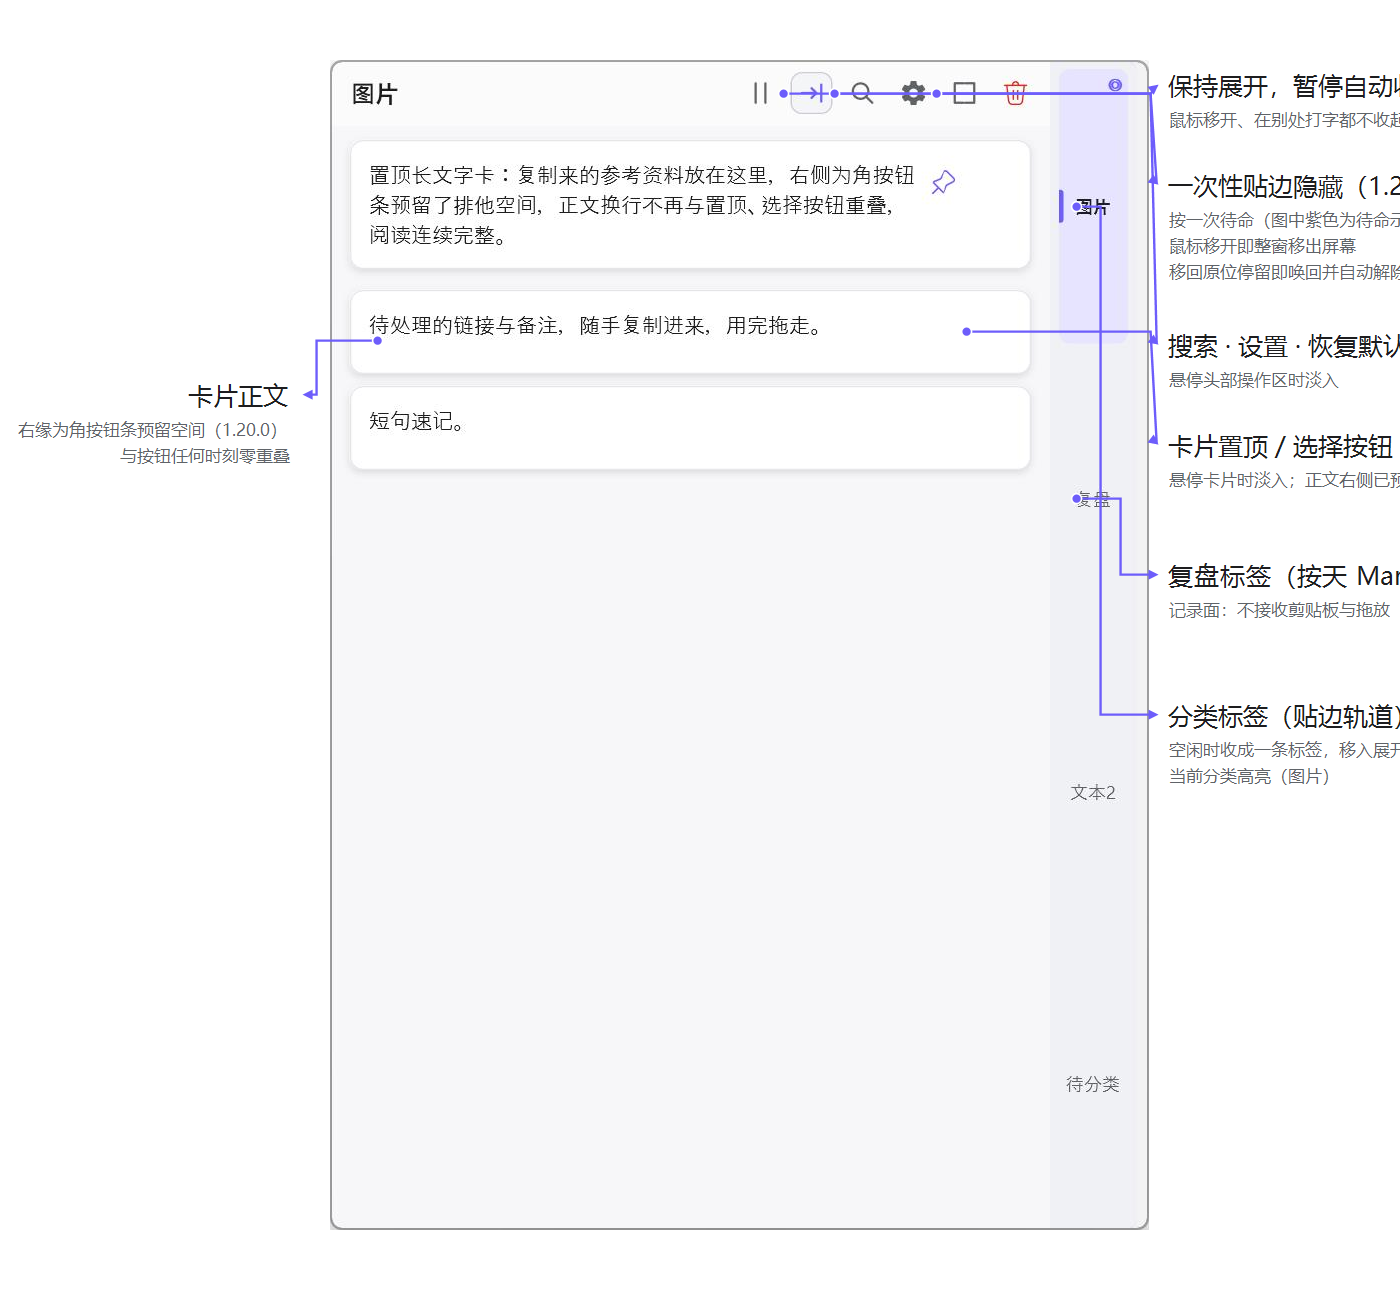
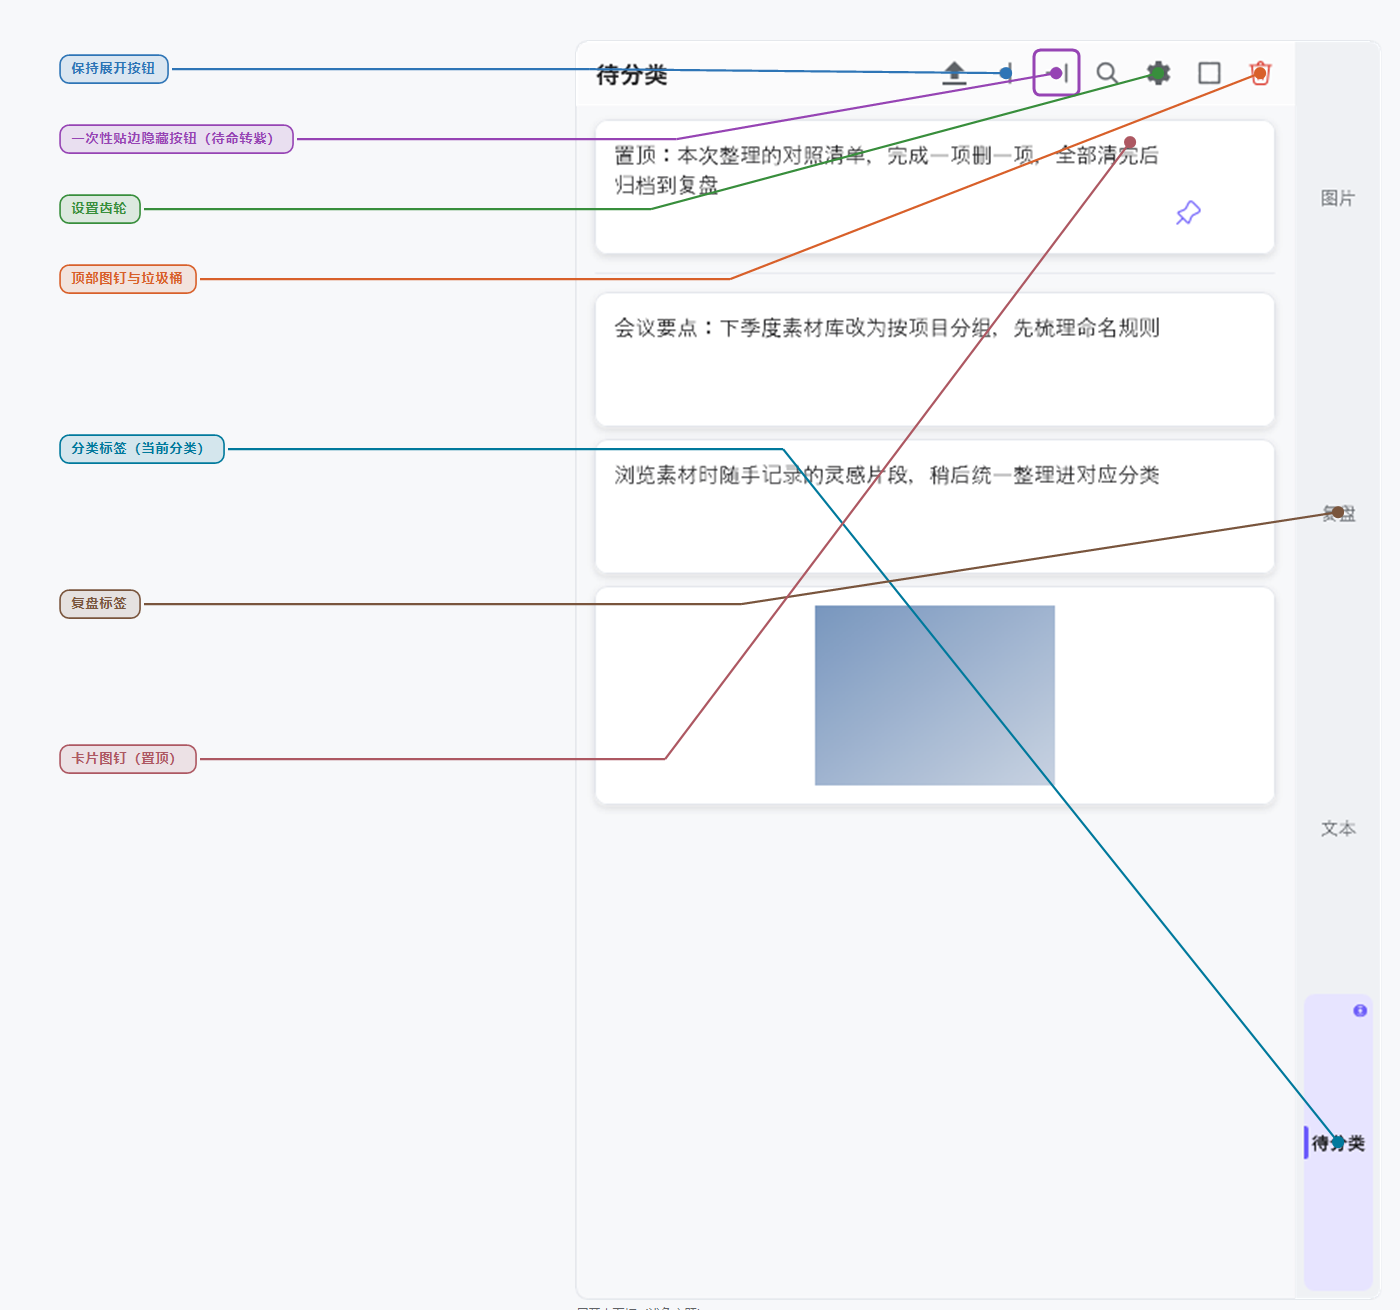
docs: 重录 panel-anatomy.png（贴缘面板图标入镜）并同步措辞与更新记录
02 号资产沿 settings-window.png 测试证据再生先例：真实 WPF 渲染管线
输出展开态面板（480 DIP 宽种子、浅色主题）为底，锚点取自测试进程内
TransformToAncestor 几何，引线/文案/紫色待命高亮由脚本绘制（1400×1310、
七条标注）。README「不挡工作区」与功能清单、design.md 一次性贴边隐藏
条目的「暂停符」措辞同步改为「贴缘面板」；CHANGELOG 未发布区新增
图标改版条目；docs/images/README.md 资产表与 02 号配方口径对齐（七条）。

diff --git a/README.md b/README.md
@@ -45,7 +45,7 @@ Release 页面中的 `Source code (zip)` / `Source code (tar.gz)` 是 GitHub 自
 - **自动清理**：默认开启；每张非置顶卡片入库满 24 小时即自动删除（升级后首次检查即清理已超龄的存量卡片），置顶卡片与「复盘」内容不受影响。清理走正常删除路径，可 `Ctrl + Z` 整批撤销（仅本次运行内）；每小时检查一次，休眠或重启也不会跳过到期清理（最长延迟约 1 小时）。可在设置中关闭。
 - **再拖出去**：图片和文字使用 Windows 通用拖放格式，可拖到支持这些格式的软件；纯图片多选可以按原顺序一起拖出。
 - **复制出去**：右键卡片右半把它复制到剪贴板，再粘贴到游戏聊天窗等无法拖入的目标；面板持有键盘焦点且有选择时 `Ctrl + C` 复制选中项——多条文字按板内顺序合并为一段文本，纯图片多选按原顺序给出文件组，文字+图片混合则两者并存。复制不删除卡片、不进撤销栈，应用自身的复制也不会被自动收集重复入库。
-- **不挡工作区**：窗口贴在屏幕右侧并始终保持在所有窗口最上层（其他置顶窗口出现后会自动恢复层级），空闲时收成一条分类标签，移入后再展开。贴边一侧的窗口边缘与屏幕平齐。需要对照面板内容时，点击头部设置按钮左侧的「保持展开」开关（暂停符图标）：面板会一直展开，鼠标移开、点击其他应用或在别处打字都不再自动收起，再次点击恢复自动收起。该开关只对本次运行生效，重启后回到默认的自动收起。想更彻底地让面板消失时，点它旁边的「一次性贴边隐藏」按钮（箭头收入右缘图标，点击后转紫色）：鼠标移开后整个窗口连影子一起移出屏幕，完全不可见、不占任何空间；把鼠标移回它原来的位置停留约 0.2 秒，窗口立即回到原位原形并自动解除，再次使用需再按一次（期间也可用全局唤起快捷键找回；接拔显示器等布局变化会自动恢复窗口，防止找不到）。
+- **不挡工作区**：窗口贴在屏幕右侧并始终保持在所有窗口最上层（其他置顶窗口出现后会自动恢复层级），空闲时收成一条分类标签，移入后再展开。贴边一侧的窗口边缘与屏幕平齐。需要对照面板内容时，点击头部设置按钮左侧的「保持展开」开关（贴缘面板图标）：面板会一直展开，鼠标移开、点击其他应用或在别处打字都不再自动收起，再次点击恢复自动收起。该开关只对本次运行生效，重启后回到默认的自动收起。想更彻底地让面板消失时，点它旁边的「一次性贴边隐藏」按钮（箭头收入右缘图标，点击后转紫色）：鼠标移开后整个窗口连影子一起移出屏幕，完全不可见、不占任何空间；把鼠标移回它原来的位置停留约 0.2 秒，窗口立即回到原位原形并自动解除，再次使用需再按一次（期间也可用全局唤起快捷键找回；接拔显示器等布局变化会自动恢复窗口，防止找不到）。
 - **检查更新与一键更新**：面板头部按钮行最左常驻「更新」按钮（横杠+向上箭头图标）。没有新版本时点击即手动检查，结果就地反馈在状态条；启动 30 秒后会做首次自动检查，之后每 24 小时一次（完全静默，失败不打扰）。发现新版本时按钮点亮并显示新版本号，点击即自动完成「下载 → SHA256 校验 → 保存内容 → 静默安装 → 自动重启」，全程无需手动运行安装包；下载或校验失败会清理临时文件并提示，可稍后重试。新版本未提供可校验的自动更新安装包时，会自动打开发布页供手动下载。可在设置 → 通用中关闭自动检查（默认开启），手动检查不受影响。
 
 <img src="docs/images/update-button-available.png" width="360" alt="发现新版本时头部更新按钮点亮为强调色，状态条提示可点击安装">
@@ -142,7 +142,7 @@ Release 页面中的 `Source code (zip)` / `Source code (tar.gz)` 是 GitHub 自
 - 顶部垃圾桶：有选择时左右键都删除选中项；没有选择时左键清空当前分类的非置顶内容（置顶区原样保留），右键清空全部（含置顶）。两种清空都可 `Ctrl + Z` 整体撤销，无选择时的左右键行为可在设置中调整；删除保存期间按钮暂时禁用，避免重复点击误清空。
 - 自动清理（设置中可关闭，默认开启）：每张非置顶卡片入库满 24 小时自动删除——判据是卡片自身入库时间，与检查时刻无关；置顶卡片与「复盘」内容保留，可 `Ctrl + Z` 整批撤销（仅本次运行内）；每小时检查一次。
 - 面板头部最左「更新」按钮（横杠+向上箭头）：无新版本时点击手动检查更新（状态条反馈「已是最新版本」或失败原因）；发现新版本时按钮点亮，点击自动下载安装并重启（下载经 SHA256 校验，失败自动清理可重试）。自动检查（启动 30 秒后首检、每 24 小时一次）可在设置 → 通用关闭。
-- 面板头部暂停符按钮（齿轮左侧）：保持展开——暂停自动收起，方便对照面板内容或在其他界面打字；再次点击恢复自动收起（指针在面板外时约 250ms 后收起）。保持期间从外部拖入内容时面板仍会临时切换为拖放轨道，拖放结束后自动回到展开状态。
+- 面板头部贴缘面板图标按钮（齿轮左侧）：保持展开——暂停自动收起，方便对照面板内容或在其他界面打字；再次点击恢复自动收起（指针在面板外时约 250ms 后收起）。保持期间从外部拖入内容时面板仍会临时切换为拖放轨道，拖放结束后自动回到展开状态。
 - 面板头部齿轮：打开设置窗口（主题/动效/开机自启/全局快捷键/复制手势/垃圾桶行为/插件/数据目录与插件目录更改/关于/退出）。
 - `Delete` 或 `Backspace`：只删除选中项；正在编辑文字时仍然正常删字。
 

diff --git a/docs/images/README.md b/docs/images/README.md
@@ -1,13 +1,13 @@
 # README 演示资产与再生步骤
 
-本目录存放 README 引用的演示资产（真实应用画面，非生成图）。素材取自 **1.12.0 安装版**（Windows 11，浅色主题）；`panel-anatomy.png` 已于 **1.20.0** 用预览实例（`FTS_PREVIEW_DATA_DIR` 隔离数据 + 480 DIP 宽面板种子）重录并程序化标注（锚点取自实机 UIA 元素几何，引线/文案由脚本绘制）。UI 变化后按本文步骤重录对应资产即可，不要用截图工具随手补图。
+本目录存放 README 引用的演示资产（真实应用画面，非生成图）。素材取自 **1.12.0 安装版**（Windows 11，浅色主题）；`panel-anatomy.png` 已于 **1.40.0**（保持展开按钮图标改「贴缘面板」）重录：底图为真实 WPF 渲染管线的测试证据输出（`FTS_PANEL_ANATOMY_EVIDENCE_DIR`，沿 settings-window.png 先例；480 DIP 宽面板种子），锚点取自测试进程内 TransformToAncestor 几何，引线/文案由脚本绘制。UI 变化后按本文步骤重录对应资产即可，不要用截图工具随手补图。
 
 ## 资产清单
 
 | 文件 | 尺寸 | 体积 | 内容 | README 位置 |
 |---|---|---|---|---|
 | `hero-loop.gif` | 730×630 | 185 KB | 复制文字 → 移入展开 → 卡片入库 → 拖回浏览器，完整闭环 | 一句话简介后 |
-| `panel-anatomy.png` | 1400×1310 | 146 KB | 展开态面板结构标注（七条；含 1.20.0 一次性贴边隐藏按钮，紫色为待命示意） | 「它能做什么」引言段后 |
+| `panel-anatomy.png` | 1400×1310 | 148 KB | 展开态面板结构标注（七条；含一次性贴边隐藏按钮紫色待命示意、保持展开「贴缘面板」图标） | 「它能做什么」引言段后 |
 | `drag-into-category.gif` | 700×626 | 228 KB | 资源管理器拖图到「图片」分类标签落入 | 成组区「指定位置放入」 |
 | `multi-select-batch-pin.gif` | 600×1054 | 503 KB | Ctrl 多选三卡 → 批量置顶 → 拖到「文本2」 | 成组区「整理内容」 |
 | `edge-collapse-hold.gif` | 600×1054 | 288 KB | 移开收起 → 移入展开 → 保持展开开/关，原速 11.0s | 成组区「不挡工作区」 |
@@ -65,7 +65,7 @@ ffprobe -v error -select_streams v:0 -count_frames -show_entries stream=width,he
 | # | 录制区域（物理 px） | 表演要点 |
 |---|---|---|
 | 01 | 面板+左侧浏览器窗口的横幅区（约 1310×1130） | 浏览器复制文字 → 指针移入右侧标签展开（复制本身不触发展开，必须拍到「移入→展开」）→ 新卡片已在默认分类 → 拖卡片回浏览器落下；输出缩 730 宽 |
-| 02 | 面板整矩形 [1843,135,717,1260] 单帧 | 展开态（待分类）；标注六条：分类标签、复盘标签、卡片图钉、顶部图钉与垃圾桶、保持展开按钮、设置齿轮 |
+| 02 | 面板整矩形 [1843,135,717,1260] 单帧 | 展开态（待分类）；标注七条：分类标签、复盘标签、卡片图钉、顶部图钉与垃圾桶、保持展开按钮、设置齿轮、一次性贴边隐藏按钮（紫色高亮框为待命示意） |
 | 03 | 面板矩形 | 资源管理器一张图拖到「图片」标签悬停（真实反馈形态以实测为准）→ 松手落入 |
 | 04 | 面板矩形 | `Ctrl+单击` 多选 3 张（面板内 Ctrl 注入可靠）→ 顶部图钉批量置顶 → 拖一张到「文本2」 |
 | 05 | 面板矩形 | 移开 → 收起 → 移入 → 展开 → 点保持展开 → 移开仍保持 → 再点恢复收起；**原速基准资产：禁 `setpts`/缩时长，ffprobe 断言输出时长 ≈ 录制时长（<5%）**，输出 12fps |

diff --git a/docs/design.md b/docs/design.md
@@ -126,7 +126,7 @@
 ## 五·D、卡片文字避让与一次性贴边隐藏（1.20.0）
 
 - **文字避让操作列（1.20.0 起；1.24.0 扩为三列，1.29.0 扩为四列，1.33.0 改右上两列网格）**：文字卡正文右侧为右上角操作按钮网格预留排他空间，任何时刻（悬停/非悬停）零像素争用。内缩量唯一来源是 WPF 派生资源 `CardTextReservedRightInset`（两列 `CardOperationColumnWidth` 30×2 + 4 DIP 间隙 = 64；1.20.0 两列横排为 64，1.24.0 三列 94，1.29.0 四列 124，1.33.0 随按钮区网格化回归 64），不得在别处写死第二个数值；操作按钮网格为固定两列 × 按钮行（列与按钮行绝对 30 DIP，按钮行间 4 DIP 独立间隔行，行优先序 选择|删除|置顶|备注，按钮隐藏时格子留空不漂移）；命中层对半分区与图片卡全幅不变。310px 最窄面板下每行文字约损失 25% 宽度（64/260），是消除像素争用的确定代价。
-- **一次性贴边隐藏（1.20.0 起）**：头部按钮（暂停符右侧、「箭头收入右缘」图标）切换语义；待命期间按钮转强调色、头部操作区常显（鼠标离开恰是最需要看到待命指示的时刻）。隐藏 = 整窗**同尺寸纯移动**到所有显示器右缘之外（含 DWM 阴影余量 32 物理像素，目标矩形与每一个显示器零交集），面板保持展开、内容冻结，沿用迁移原子性（隐藏与恢复各一次矩形变更）；触发融入既有 250ms 收起节奏，抑制条件复用 `PanelStateMachine.WouldCollapse`。回位区 = 隐藏时刻屏幕内可见矩形外扩 8 物理像素，以物理像素保存（此后不做运行时 DPI 换算），光标驻留 ≥200ms 恢复；恢复即回原位原形并自动解除（一次性），热键与显示器变化兜底。图标遵守 14.5×14.5 + 1.5 描边规范；窗口位移不做动画（全仓放置迁移一致）。行为契约全文见[设计契约清单](design-contracts.md) 第 16、17 条。
+- **一次性贴边隐藏（1.20.0 起）**：头部按钮（贴缘面板图标右侧、「箭头收入右缘」图标）切换语义；待命期间按钮转强调色、头部操作区常显（鼠标离开恰是最需要看到待命指示的时刻）。隐藏 = 整窗**同尺寸纯移动**到所有显示器右缘之外（含 DWM 阴影余量 32 物理像素，目标矩形与每一个显示器零交集），面板保持展开、内容冻结，沿用迁移原子性（隐藏与恢复各一次矩形变更）；触发融入既有 250ms 收起节奏，抑制条件复用 `PanelStateMachine.WouldCollapse`。回位区 = 隐藏时刻屏幕内可见矩形外扩 8 物理像素，以物理像素保存（此后不做运行时 DPI 换算），光标驻留 ≥200ms 恢复；恢复即回原位原形并自动解除（一次性），热键与显示器变化兜底。图标遵守 14.5×14.5 + 1.5 描边规范；窗口位移不做动画（全仓放置迁移一致）。行为契约全文见[设计契约清单](design-contracts.md) 第 16、17 条。
 
 ## 五·E、设置窗口（双栏导航、冻结几何与几何持久化）
 

diff --git a/CHANGELOG.md b/CHANGELOG.md
@@ -4,6 +4,8 @@
 
 ## 未发布
 
+- 「保持展开」按钮图标改版：由暂停符（两条等高竖线）改为「贴缘面板」描边图形——全高竖线表示屏幕右缘，左侧垂直居中的扁长方形表示展开的面板，长方形右长边由竖线兼任、墨迹高约为竖线三分之一（应用「面板贴屏幕右缘」布局的微缩图）。交互行为、双态提示文案、自动化名称与保持态强调色切换零变化。头部描边图标家族断言重构为共享助手（`AssertStrokeIconCentered`），保持展开按钮纳入家族回归（此前仅恢复默认按钮受检）；README 演示资产 `panel-anatomy.png` 同步重录（真实 WPF 渲染管线证据输出，七条程序化标注）。
+
 ## 1.39.0
 
 - 编辑中的卡片：点击本卡非编辑器区域退出编辑，语义为提交（Issue #134，设计契约 #22 修订）：备注（及正文）就地编辑中，点击「正在编辑的卡片」上编辑器之外的一切区域（正文显示区、备注行、右上操作按钮、拖拽区）现在与点击其他卡片一致——提交已输入内容并退出编辑；此前该点击被编辑表面吞掉、无任何效果（冲刷只存在于编辑卡之外）。该次点击被会话终结消费：不启动按压/拖拽会话、不作手势分发、不写且作废双击痕迹（防「退出后立即再击」的极快序列被进入手势的陈旧痕迹拼成伪双击重开编辑器），随后的下一次点击恢复正常交互；编辑中的双击=首击提交会话、第二击按普通单击处理，不直接进入正文编辑；编辑期点击本卡置顶/删除/备注钮或拖拽区=仅退出编辑，按钮动作不执行、拖拽不启动。编辑器内的点击行为不变（放光标/选择）；Esc 取消、Enter 提交、IME 组合、失焦离窗提交、滚动条与锚点终结等会话语义零改动——提交走既有 CommitCardTextEditing 同一冲刷路径，无第二套提交逻辑。
